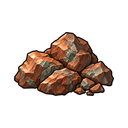
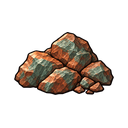
fix(art): address raw goods review feedback

Changed region(s): [[0.0938, 0.25, 0.9062, 0.75]]

diff --git a/scripts/content/generate_small_world.py b/scripts/content/generate_small_world.py
@@ -6,7 +6,7 @@ python scripts/content/generate_small_world.py --output-dir TestResults/reproduc
 
 脚本生成 resources/，手绘图标按 HAND_DRAWN_ICONS 保留；校验模式拒绝缺失、多余或生成字节不同的文件，
 并按仓库 Schema 检查 JSON（校验需要 jsonschema）。生成只用 Python 标准库。
-地形与小型机车使用第一阶段风格样稿，其余美术仍为占位；数值待配平，
+地形与小型机车使用第一阶段风格样稿，十二种原料货物已有正式美术，其余仍为占位；数值待配平，
 数值和画面待用户试玩确认；NPC 库存与现车初始化已启用，车队待 #340。
 校验同时检查正式内容的经济关系；不生成生物聚落或存档。
 """
@@ -98,23 +98,6 @@ RESOURCE_PROFILES = (
 )
 RAW_GOODS = {row[1] for row in RESOURCE_PROFILES} | {"grain", "produce", "animal-products", "natural-fiber"}
 ALL_SHAPES = ["cube", "half", "plate", "wedge", "corner-wedge", "beam", "cylinder"]
-
-RAW_GOODS_ART = {
-    "ferrous-ore": ("stone_soil", 2, None, None),
-    "conductive-ore": ("stone_soil", 2, None, None),
-    "rare-mineral": ("stone_soil", 2, None, None),
-    "stone": ("stone_soil", 2, None, None),
-    "silica": ("stone_soil", 2, None, None),
-    "coal": ("stone_soil", 2, None, None),
-    "crude-oil": ("painted_metal", 1, "side.png", None),
-    "grain": ("organic", 1, "side.png", None),
-    "produce": ("organic", 1, "side.png", "shared/crate-bottom.png"),
-    "animal-products": ("organic", 1, "side.png", "shared/crate-bottom.png"),
-    "timber": ("organic", 1, "side.png", None),
-    "natural-fiber": ("organic", 1, "side.png", None),
-}
-# 表中货物的 icon.png 是唯一源，生成器只生成 Keep File 导入声明。
-HAND_DRAWN_ICONS = tuple(f"voxels/{identity}/icon.png" for identity in RAW_GOODS_ART)
 
 # id、显示名、质量/耐久对照的已有货物、共享占位图族。
 # 只复制这两个物理字段，不继承对照货物的功能或经济身份。
@@ -378,12 +361,14 @@ def stone_texture(x, y):
 
 
 def silica_texture(x, y):
-    speckle = (x * 17 ^ y * 37 ^ x * y) % 5 - 2
-    return mineral_texture(x, y, (205 + speckle, 191 + speckle, 155 + speckle))
+    particles = (x * 17 ^ y * 37 ^ (x // 2) * (y // 2) * 13) % 9 - 4
+    return tint((205, 191, 155), particles + grain(x, y, 64, 0x606))
 
 
 def crude_oil_texture(x, y, side=False):
     if side:
+        if x in (0, 31):
+            return tint((31, 38, 44))
         band = y % 16 in (3, 4, 5)
         return tint((58, 67, 75), 15 if band else grain(x, y, 32, 0x607) // 2)
     radius = ((x - 15.5) ** 2 + (y - 15.5) ** 2) ** .5
@@ -420,11 +405,15 @@ def crate_side_texture(x, y, wood, contents):
 def produce_texture(x, y, side=False):
     if side:
         return crate_side_texture(x, y, (128, 98, 63), (66, 93, 49))
-    a, b = sorted((min(x, 31 - x), min(y, 31 - y)))
-    if a < 2:
-        return tint((128, 98, 63), grain(a, b, 32, 0x610))
-    carrot = (a - 10) ** 2 + (b - 12) ** 2 < 14
-    return tint((179, 110, 47) if carrot else (79, 112, 53), grain(a, b, 32, 0x611))
+    if x < 2 or x > 29 or y < 2 or y > 29:
+        return tint((128, 98, 63), grain(x, y, 32, 0x610))
+    for cx, cy, radius, tone in ((7, 8, 5, 8), (20, 6, 4, -5), (25, 18, 5, 3),
+                                (14, 16, 6, -10), (7, 25, 4, 6), (21, 26, 4, -3)):
+        if (x - cx) ** 2 + (y - cy) ** 2 < radius ** 2:
+            return tint((79, 112, 53), tone + grain(x, y, 32, 0x611))
+    root = (((x - 7) / 2) ** 2 + ((y - 16) / 4) ** 2 < 1
+            or ((x - 23) / 4) ** 2 + ((y - 12) / 2) ** 2 < 1)
+    return tint((179, 110, 47) if root else (56, 79, 41), grain(x, y, 32, 0x611))
 
 
 def animal_products_texture(x, y, side=False):
@@ -462,6 +451,24 @@ def natural_fiber_texture(x, y, side=False):
         x, y = min(x, 31 - x), min(y, 31 - y)
         strap = x >= 14 or y >= 14
     return tint((67, 77, 76) if strap else (226, 218, 192), grain(min(x, y), max(x, y), 32, 0x617) // 2)
+
+
+RAW_GOODS_ART = {
+    "ferrous-ore": ("stone_soil", 2, None, None, ferrous_ore_texture),
+    "conductive-ore": ("stone_soil", 2, None, None, conductive_ore_texture),
+    "rare-mineral": ("stone_soil", 2, None, None, rare_mineral_texture),
+    "stone": ("stone_soil", 2, None, None, stone_texture),
+    "silica": ("stone_soil", 2, None, None, silica_texture),
+    "coal": ("stone_soil", 2, None, None, coal_texture),
+    "crude-oil": ("painted_metal", 1, "side.png", None, crude_oil_texture),
+    "grain": ("organic", 1, "side.png", None, grain_texture),
+    "produce": ("organic", 1, "side.png", "shared/crate-bottom.png", produce_texture),
+    "animal-products": ("organic", 1, "side.png", "shared/crate-bottom.png", animal_products_texture),
+    "timber": ("organic", 1, "side.png", None, timber_texture),
+    "natural-fiber": ("organic", 1, "side.png", None, natural_fiber_texture),
+}
+# 表中货物的 icon.png 是唯一源，生成器只生成 Keep File 导入声明。
+HAND_DRAWN_ICONS = tuple(f"voxels/{identity}/icon.png" for identity in RAW_GOODS_ART)
 
 
 def plate_texture(x, y):
@@ -808,6 +815,7 @@ def content_files():
         return simulation
 
     sample_description = "{}的第一阶段风格样稿；数值待配平，画面待用户阶段试玩确认。"
+    raw_description = "{}的正式美术；数值待配平，画面待用户阶段试玩确认。"
     voxel("structural-metal", "结构金属", "painted_metal", faces("top.png", "side.png", "shared/vehicle-underside.png"),
           "icon.png", good("structural-metal", 0.028, 260), tile_span=4, description=sample_description.format("结构金属"))
     voxel("construction-material", "建筑材料", "concrete", faces("shared/soil-face.png"),
@@ -829,9 +837,9 @@ def content_files():
              ("consumer-electronics", "消费电子", 1.6), ("medical-supplies", "医疗用品", 0.4))
     for identity, name, mass in goods:
         voxel(identity, name, "organic", faces("shared/organic-face.png"), "shared/organic-icon.png", good(identity, mass))
-    material, tile_span, side, bottom = RAW_GOODS_ART["stone"]
+    material, tile_span, side, bottom, _ = RAW_GOODS_ART["stone"]
     voxel("stone", "石料", material, faces("top.png", side, bottom), "icon.png", good("stone", 0.042),
-          tile_span=tile_span, description="石料的正式美术；数值待配平，画面待用户阶段试玩确认。")
+          tile_span=tile_span, description=raw_description.format("石料"))
     voxel("ground", "地表", "organic", faces("top.png", "side.png", "shared/subsoil.png"),
           "icon.png", tile_span=4, description=sample_description.format("地表"))
     voxel("forest-ground", "森林地表占位", "organic", faces("top.png"),
@@ -843,15 +851,11 @@ def content_files():
     voxel("rock", "岩层", "stone_soil", faces("top.png"),
           "icon.png", tile_span=4, description=sample_description.format("岩层"))
     style_assets(files)
-    for identity, texture in (("ferrous-ore", ferrous_ore_texture), ("conductive-ore", conductive_ore_texture),
-                              ("rare-mineral", rare_mineral_texture), ("stone", stone_texture),
-                              ("silica", silica_texture), ("coal", coal_texture)):
-        files[f"voxels/{identity}/top.png"] = png(64, texture)
-    for identity, texture in (("crude-oil", crude_oil_texture), ("grain", grain_texture),
-                              ("produce", produce_texture), ("animal-products", animal_products_texture),
-                              ("timber", timber_texture), ("natural-fiber", natural_fiber_texture)):
-        files[f"voxels/{identity}/top.png"] = png(32, texture)
-        files[f"voxels/{identity}/side.png"] = png(32, lambda x, y: texture(x, y, side=True))
+    for identity, (_, tile_span, side, _, texture) in RAW_GOODS_ART.items():
+        size = 32 * tile_span
+        files[f"voxels/{identity}/top.png"] = png(size, texture)
+        if side is not None:
+            files[f"voxels/{identity}/{side}"] = png(size, lambda x, y: texture(x, y, side=True))
     files["voxels/shared/crate-bottom.png"] = png(32, crate_bottom_texture)
 
     for spec in VEHICLES:
@@ -911,9 +915,9 @@ def content_files():
         face_paths, icon_path = faces(f"shared/{texture}-face.png"), f"shared/{texture}-icon.png"
         tile_span, description = None, None
         if identity in RAW_GOODS_ART:
-            material, tile_span, side, bottom = RAW_GOODS_ART[identity]
+            material, tile_span, side, bottom, _ = RAW_GOODS_ART[identity]
             face_paths, icon_path = faces("top.png", side, bottom), "icon.png"
-            description = f"{name}的正式美术；数值待配平，画面待用户阶段试玩确认。"
+            description = raw_description.format(name)
         voxel(identity, name, material, face_paths, icon_path, simulation,
               light=identity == "lamp", tile_span=tile_span, description=description)
 

diff --git a/docs/content/README.md b/docs/content/README.md
@@ -37,7 +37,7 @@
 
 `builtin/core/resources/` 当前提供经济运输切片的正式输入：三种轨距的小型／中型／超大型机车、小站点和站台设备、五类聚居地与六份模板、五种地貌及桥隧模型、五类规则和 `core:basic-through-world` 生成配置。除下述手绘图标外，JSON 和 PNG 由 [generate_small_world.py](../../scripts/content/generate_small_world.py) 生成，该脚本是生成贴图的唯一可编辑源。所有 PNG 的 Keep File `.import` 由脚本生成，UID 由路径确定。
 
-第一阶段风格样稿覆盖 `ground`、`subsoil`、`rock` 和小型机车使用的五种货物体素：`structural-metal`、`bogie`、`propulsion-equipment`、`control-equipment`、`storage-equipment`。面贴图每格 32 px，图标 128×128、透明底；土层图与车辆底面放在 `voxels/shared/` 复用。小型机车采用驾驶室、机器间、两侧检修走廊和端部平台的外形，轮对格位与体素数量沿用原内容。中型、超大型蓝图保持原模板，共用体素表现随素材更新。#359 补齐下表十二种原料的正式美术；未列出的其他资产仍待各自美术任务制作，不代表完整 Demo 美术完成，画面待用户阶段试玩确认。
+第一阶段风格样稿覆盖 `ground`、`subsoil`、`rock` 和小型机车使用的五种货物体素：`structural-metal`、`bogie`、`propulsion-equipment`、`control-equipment`、`storage-equipment`。面贴图每格 32 px，图标 128×128、透明底；土层图与车辆底面放在 `voxels/shared/` 复用。小型机车采用驾驶室、机器间、两侧检修走廊和端部平台的外形，轮对格位与体素数量沿用原内容。中型、超大型蓝图保持原模板，共用体素表现随素材更新。#359 补齐十二种原料的正式美术；其他资产仍待各自美术任务制作，不代表完整 Demo 美术完成，画面待用户阶段试玩确认。
 
 这是经济运输验证世界，**不是完整 Demo 默认开局**。配置使用非零噪声和成环线路，起始车队每种轨距各一台机车；正式经济目录包含 46 种货物和 63 个流程（38 生产、8 开采、17 回收），模板包含真实生产计划。检查器直接读取正式 JSON，分别检查生产与回收关系、人口消费品的静态可达性、两条燃料路线的整批原料需求与余量，以及真实蓝图设备支持的满速供电和劳动估算；燃料批次的产出能量须高于自身及直接上游开采的耗电，炼油联产品不分摊单品成本。模板报告给出本地吞吐和燃料能量收支，以及跨模板进口和未被启用计划供应的中间品，静态全包可达不表示 NPC 能动态闭合运行。正式美术仍未完成。`lair_ratio=0`；NPC 按核心补货目标初始化输入原料和生活物资，预存 2 小时潜在产出，并按车间档位和市场名额生成 1–2 辆现车，容量不足时由核心按比例补入。这不表示动态供应链或真实起步贸易已验收。含生物聚落的预算未测量：生物聚落会占用节点，影响起点检查、初始铁路和选路，需要在内容接入后重测。
 
@@ -63,26 +63,9 @@ pwsh -NoProfile -File scripts/test.ps1 -Project content -Layer fast,integration
 
 ### 手绘货物图标
 
-下表每种货物的 `resources/voxels/<id>/icon.png`（相对 `builtin/core/`）是手绘源。它们由图像模型生成，整理后的最终 PNG 本身就是唯一源，不在 `art-source/` 留副本，也不提交整理脚本。后续直接编辑内容目录内的 PNG，在运行中的 Debug 构建中用 `reload` 或 Ctrl+Shift+R 检查。贴图仍修改生成脚本后重制。
+手绘清单是生成器 `RAW_GOODS_ART` 推出的 `HAND_DRAWN_ICONS`，列出 `builtin/core/resources/voxels/<id>/icon.png`。这些图由图像模型生成，整理后的最终 PNG 本身就是唯一源，不在 `art-source/` 留副本，也不提交整理脚本。后续直接编辑内容目录内的 PNG，在运行中的 Debug 构建中用 `reload` 或 Ctrl+Shift+R 检查。贴图仍修改生成脚本后重制，不能用图标代替面贴图。
 
-| ID | 面图跨度／边长 | 顶面／侧面／底面绑定 | 表现材质与图标 |
-| --- | --- | --- | --- |
-| `ferrous-ore` | 2／64 px | 三面均为 `top.png` | `stone_soil`；锈红矿块堆 |
-| `conductive-ore` | 2／64 px | 三面均为 `top.png` | `stone_soil`；铜褐灰绿矿块堆 |
-| `rare-mineral` | 2／64 px | 三面均为 `top.png` | `stone_soil`；灰紫矿块堆 |
-| `stone` | 2／64 px | 三面均为 `top.png` | `stone_soil`；灰色石料堆 |
-| `silica` | 2／64 px | 三面均为 `top.png` | `stone_soil`；浅色细砂堆 |
-| `coal` | 2／64 px | 三面均为 `top.png` | `stone_soil`；深灰煤块堆 |
-| `crude-oil` | 1／32 px | `top.png`／`side.png`／`top.png` | `painted_metal`；直立储油桶 |
-| `grain` | 1／32 px | `top.png`／`side.png`／`top.png` | `organic`；麻袋与麦穗 |
-| `produce` | 1／32 px | `top.png`／`side.png`／`shared/crate-bottom.png` | `organic`；果蔬筐 |
-| `animal-products` | 1／32 px | `top.png`／`side.png`／`shared/crate-bottom.png` | `organic`；蛋奶筐 |
-| `timber` | 1／32 px | `top.png`／`side.png`／`top.png` | `organic`；原木捆，贴图按原木竖放绘制 |
-| `natural-fiber` | 1／32 px | `top.png`／`side.png`／`top.png` | `organic`；带捆带的浅色纤维包 |
-
-三面只绑定贴图，图标不参与面图生成或绑定。固体原料采用环面 Voronoi 碎块、深色间隙与块面固有色差，不把光照方向烘进贴图；其余顶面图案保持四向均衡，侧面上方朝上。共用筐底只有 `shared/crate-bottom.png` 一份，由同一生成脚本绘制。
-
-生成器的 `RAW_GOODS_ART` 逐项登记这批货物的表现绑定，原料创建处查表并把实际值传给 `voxel()`；`HAND_DRAWN_ICONS` 从同一张表推导出固定的源 PNG 路径，不使用目录或扩展名通配。生成器不写、不复制这些图；生成和检查都允许它们存在，`--check` 在缺图时失败；对应 `.png.import` 仍生成。新增 #393、#394 图标时同步扩充表现表和本节路径表，其余文件的拒绝规则保持不变。
+生成器保留手绘 PNG，`--check` 在缺图时失败；对应的 Keep File `.png.import` 仍由生成器生成。新增 #393、#394 图标时在 `RAW_GOODS_ART` 登记，沿用下述提示词、整理步骤和同用途规则。
 
 共用提示词模板：
 
